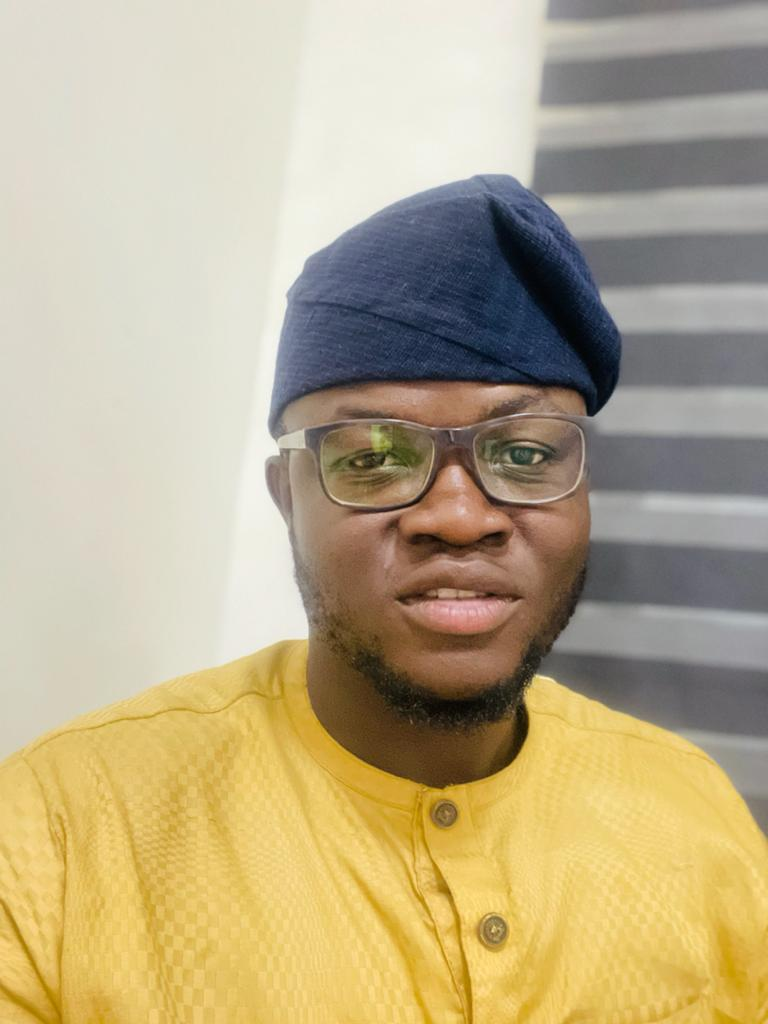
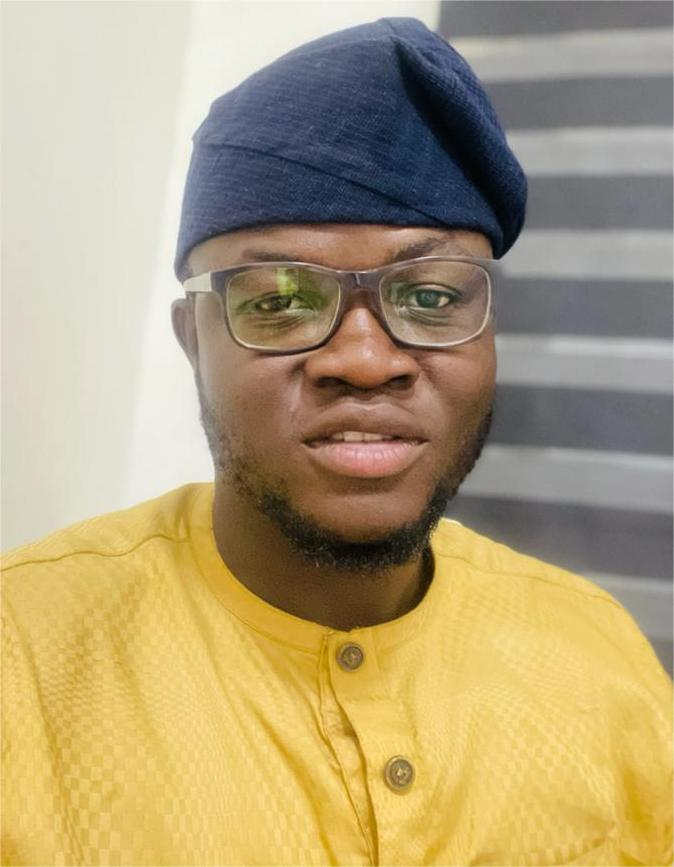
fdv

diff --git a/executives.html b/executives.html
@@ -91,7 +91,7 @@
                 
                 <div class="executive-card">
                     <div class="executive-image">
-                        
+                        <img src="image/gen-sec.jpg" height="250" width="370" alt="Executive-Image">
                         <div class="executive-role">Secretary General</div>
                     </div>
                     <div class="executive-details">
